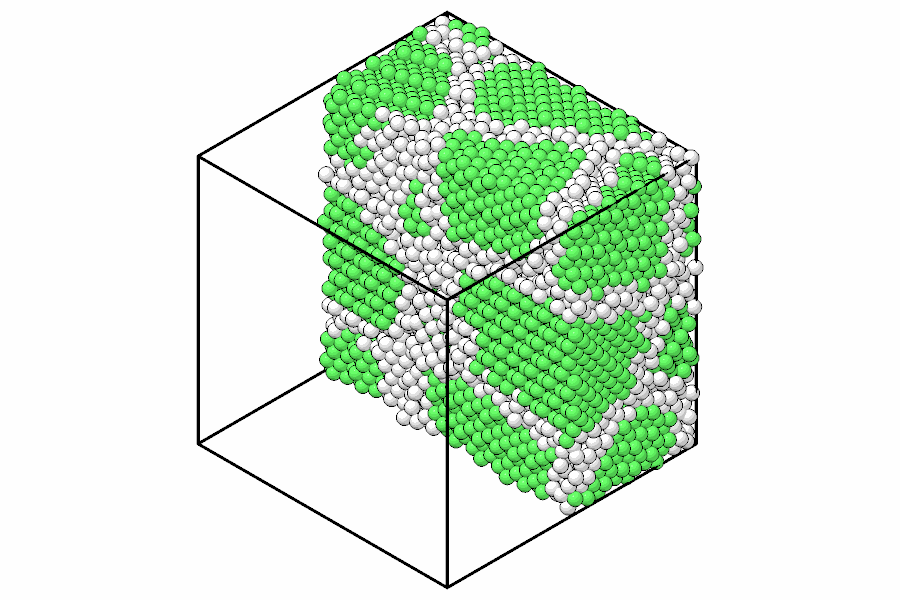
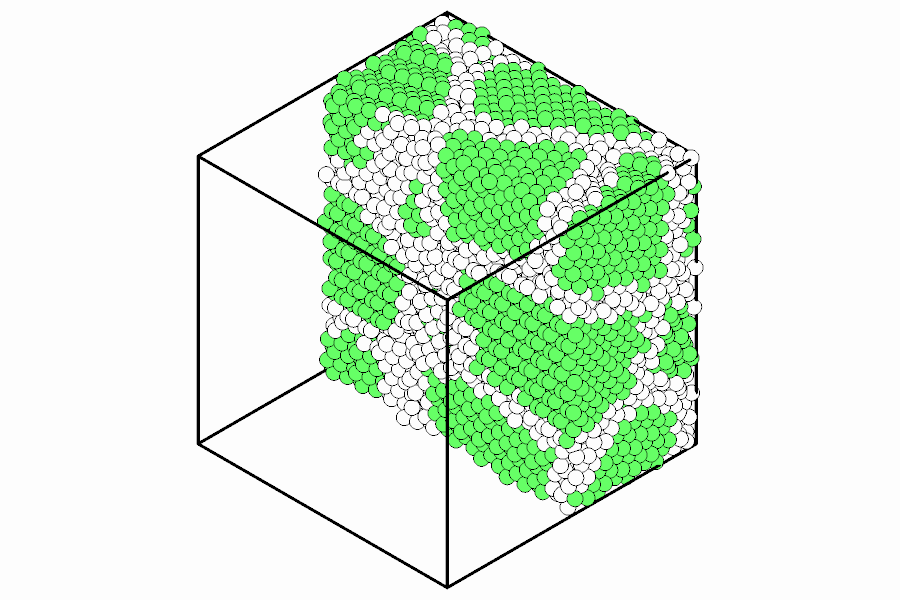
Rendering: flat in place of toon
The fourth style is flat again: plain colors with every atom outlined, as
ASE draws atoms, for small systems. The cartoon shading stays as the
setting toon_levels.

Changed region(s): [[0.3422, 0.03, 0.7778, 0.87]]

diff --git a/tests/visualization/test_render.py b/tests/visualization/test_render.py
@@ -159,10 +159,6 @@ def test_trace_matches_brute_force():
 # ------------------------------------------------------------ pictures
 
 
-# plain colors in linear light, without lights or occlusion
-FLAT = {"style": "toon", "flat": True}
-
-
 def one_sphere(color=(0.2, 0.6, 0.9), **options):
     scene = Scene()
     scene.add_spheres([[0.0, 0, 0]], 1.0, color)
@@ -170,7 +166,7 @@ def one_sphere(color=(0.2, 0.6, 0.9), **options):
 
 
 def test_silhouette_and_flat_color():
-    image = one_sphere(**FLAT, outline_width=0.0, background=None, zoom=0.5)
+    image = one_sphere(style="flat", outline_width=0.0, background=None, zoom=0.5)
     # framed with 4 % to spare and zoomed out twice: the sphere spans a
     # quarter of the picture's width
     covered = (image[..., 3] > 127).sum()
@@ -192,7 +188,9 @@ def srgb_to_linear(c):
 def test_front_sphere_hides_the_back_one():
     scene = Scene()
     scene.add_spheres([[0.0, 0, 0], [0.0, 0, -3]], 1.0, [[1.0, 0, 0], [0, 0, 1.0]])
-    image = scene.render(width=100, height=100, view="top", **FLAT, outline_width=0)
+    image = scene.render(
+        width=100, height=100, view="top", style="flat", outline_width=0
+    )
     red, green, blue = image[50, 50, :3]
     assert red > 200 and blue < 50 and green < 50
 
@@ -203,15 +201,17 @@ def test_transparent_triangles():
     scene.add_triangles(
         [[[-5, -5, 2.0], [5, -5, 2], [0, 5, 2]]], (1.0, 0, 0), alpha=0.5
     )
-    image = scene.render(width=100, height=100, view="top", **FLAT, outline_width=0)
+    image = scene.render(
+        width=100, height=100, view="top", style="flat", outline_width=0
+    )
     r, g, b = image[50, 50, :3].astype(float) / 255
     expected = srgb(0.5 * srgb_to_linear([1, 0, 0]) + 0.5 * srgb_to_linear([0, 0, 1]))
     np.testing.assert_allclose([r, g, b], expected, atol=0.01)
 
 
 def test_outlines():
-    plain = one_sphere(**FLAT, outline_width=0.0)
-    lined = one_sphere(**FLAT, outline_width=3.0)
+    plain = one_sphere(style="flat", outline_width=0.0)
+    lined = one_sphere(style="flat", outline_width=3.0)
     dark = lined[..., :3].sum(axis=2) < 60
     assert dark.sum() > 0 and (plain[..., :3].sum(axis=2) < 60).sum() == 0
     # the line circles the sphere, just outside its silhouette
@@ -335,7 +335,7 @@ def test_focus_and_span_frame_a_given_region():
         height=200,
         view="top",
         background=None,
-        **FLAT,
+        style="flat",
         outline_width=0.0,
     )
     image = scene.render(focus=(1.0, 2.0, 3.0), span=4.0, **options)
@@ -357,16 +357,16 @@ def test_focus_and_span_frame_a_given_region():
 def test_style_settings():
     from mdapy.visualization import STYLES, style_settings
 
-    assert list(STYLES) == ["fast", "matte", "shiny", "toon"]
-    toon = style_settings("toon")
-    assert toon["toon_levels"] == 3 and toon["outline_width"] == 1.2
-    assert toon["supersample"] == 2 and toon["ao_distance"] is None
-    assert toon["highlight"] is None and toon["metalness"] == 0.0
+    assert list(STYLES) == ["fast", "matte", "shiny", "flat"]
+    flat = style_settings("flat")
+    assert flat["flat"] is True and flat["outline_width"] == 1.0
+    assert flat["supersample"] == 2 and flat["ao_distance"] is None
+    assert flat["highlight"] is None and flat["metalness"] == 0.0
     assert style_settings() == style_settings("matte")
-    assert all(set(style_settings(name)) == set(toon) for name in STYLES)
+    assert all(set(style_settings(name)) == set(flat) for name in STYLES)
     # a copy: changing it changes no style
-    toon["toon_levels"] = 5
-    assert style_settings("toon")["toon_levels"] == 3
+    flat["flat"] = False
+    assert style_settings("flat")["flat"] is True
     # the settings render the same picture as the style
     scene = Scene()
     scene.add_spheres([[0.0, 0, 0]], 1.0, (0.2, 0.6, 0.9))
@@ -784,7 +784,7 @@ def test_samples_in_every_style():
     # rays anywhere in the subpixels cover a disk closer to its area
     picture = {
         samples: one_sphere(
-            **FLAT,
+            style="flat",
             outline_width=0.0,
             background=None,
             zoom=0.5,
@@ -811,7 +811,7 @@ def test_depth_of_field():
         "focus": [0, 0, 0],
         "span": 12,
         "background": None,
-        **FLAT,
+        "style": "flat",
         "outline_width": 0.0,
         "samples": 16,
     }
@@ -852,7 +852,7 @@ def test_depth_of_field():
 def test_light_reflected_in_color():
     scene = floor_and_ball("red", [0.0, 0, 1.0], size=4.0)
     options = {"width": 120, "height": 120, "view": "iso"}
-    flat = scene.render(**FLAT, outline_width=0, **options)[..., :3].astype(int)
+    flat = scene.render(style="flat", outline_width=0, **options)[..., :3].astype(int)
     ball = flat[..., 0] > flat[..., 1] + 50
     near = np.zeros_like(ball)  # the ball and the pixels next to it
     for dy in range(-2, 3):
@@ -904,7 +904,7 @@ def test_representations():
         "height": 120,
         "view": "top",
         "box": False,
-        **FLAT,
+        "style": "flat",
     }
     pictures = {
         r: render(molecule, representation=r, **options) for r in REPRESENTATIONS
@@ -942,7 +942,8 @@ needs_gpu = pytest.mark.skipif(not gpu_available(), reason="no GPU")
     [
         {"style": "matte"},
         {"style": "fast", "background": None},
-        {"style": "toon", "perspective": True, "fog": 0.5},
+        {"style": "flat", "perspective": True, "fog": 0.5},
+        {"style": "matte", "toon_levels": 3, "outline_width": 1.2, "ao_samples": 0},
         {"style": "shiny", "samples": 4},
         {"style": "shiny", "samples": 4, "metalness": 1.0, "highlight": (1, -1, 1)},
         {"style": "matte", "light_size": 0.2, "samples": 4},
@@ -998,7 +999,7 @@ def test_the_color_of_the_box():
     system = mdapy.System(np.zeros((1, 3)), mdapy.Box(10.0), elements="Cu")
     options = {
         "atoms": np.zeros(1, dtype=bool),
-        **FLAT,
+        "style": "flat",
         "outline_width": 0.0,
         "width": 120,
         "height": 120,

diff --git a/src/mdapy/visualization/_scene.py b/src/mdapy/visualization/_scene.py
@@ -77,13 +77,13 @@ STYLES: dict[str, dict[str, Any]] = {
         "shininess": 40.0,
         "metalness": 0.4,
     },
-    # cel shading with outlines
-    "toon": {
-        "toon_levels": 3,
+    # plain colors with every atom outlined, as ASE draws atoms
+    "flat": {
+        "flat": True,
         "ao_samples": 0,
         "shadows": False,
-        "outline_width": 1.2,
-        "specular": 0.35,
+        "outline_width": 1.0,
+        "outline_depth": 0.0,
     },
 }
 

diff --git a/docs/visualization/rendering.md b/docs/visualization/rendering.md
@@ -17,7 +17,7 @@ structures = CommonNeighborAnalysis().compute(grains)
 
 image = render(grains, color=structures, width=800, height=600)  # (600, 800, 4)
 boundaries = render(
-    grains, atoms=structures.structure != 1, color=structures, style="toon"
+    grains, atoms=structures.structure != 1, color=structures, style="flat"
 )
 ```
 
@@ -36,7 +36,7 @@ write_png("images/styles.png", np.hstack(pictures))
 ![The styles](images/styles.png)
 
 *The four styles on a polycrystal colored by common neighbor analysis:
-fast, matte, shiny and toon.*
+fast, matte, shiny and flat.*
 
 ## Parameters
 
@@ -119,7 +119,7 @@ The `options` are those of `Scene.render`:
 | `fast` | quick, as the viewports of OVITO: an ambient part, a light from the viewer and a broad highlight from the upper left, neither occlusion nor shadows |
 | `matte` | matte spheres, as the pictures of the Tachyon renderer of OVITO: a bright sky darkened by ambient occlusion, a weak light from the viewer with sharp shadows |
 | `shiny` | shiny spheres with a metallic sheen, after the pictures of the OSPRay renderer of OVITO: light from a sky and a wide key light that bounces once between the atoms, soft shadows and small highlights; about three times slower than `matte` |
-| `toon` | cel shading in three levels, outlined; for small systems |
+| `flat` | plain colors, every atom outlined, as ASE draws atoms; for small systems |
 
 Any setting of a style can be changed by name: `ambient`, `diffuse`,
 `specular`, `shininess`, `metalness` (from 0 to 1: metals reflect less

diff --git a/docs/reference/glossary.md b/docs/reference/glossary.md
@@ -37,7 +37,7 @@ implemented.
 | spanning cluster | A cluster that joins a periodic image of itself through its bonds, so that it has no unbroken position. |
 | covalent bond | A pair of atoms closer than the sum of their covalent radii and 0.45 Å, as pictures draw them. |
 | global illumination | Light that reaches a surface after bouncing off others, as the shiny style of pictures traces it. |
-| style of a picture | Its lights, shadows, occlusion and outlines together: fast (as the viewports of OVITO), matte (as its Tachyon renderer), shiny (after its OSPRay renderer) or toon. |
+| style of a picture | Its lights, shadows, occlusion and outlines together: fast (as the viewports of OVITO), matte (as its Tachyon renderer), shiny (after its OSPRay renderer) or flat (outlined, as ASE draws atoms). |
 | highlight | The light of a lamp mirrored by a surface toward the viewer: a bright spot on a sphere. |
 | metalness | From 0 to 1, how much a surface behaves as a metal: it reflects less light diffusely and its highlights take its color. |
 | depth of field | In a picture through a lens, the range of depths that looks sharp around the plane in focus; nearer and farther things blur. |

diff --git a/docs/development/release-notes.md b/docs/development/release-notes.md
@@ -344,7 +344,8 @@ mdapy 2.0 is a complete rewrite and is not compatible with mdapy 1.x.
   ambient occlusion, shadows and outlines in four styles: fast, lit as the
   viewports of OVITO; matte, as the Tachyon renderer of OVITO (the
   default); shiny, a metallic sheen after its OSPRay renderer, with light
-  bouncing between the atoms; toon, outlined; colored by element,
+  bouncing between the atoms; flat, plain colors outlined as ASE draws
+  atoms; colored by element,
   structure, values or by hand, with bonds, the box, Voronoi cells,
   surface meshes and dislocation lines with arrows of their Burgers
   vectors, cut at the periodic faces of the box;

diff --git a/docs/getting-started/quick-tour.md b/docs/getting-started/quick-tour.md
@@ -96,7 +96,7 @@ render(
     "images/quick-tour.png",
     atoms=grains["positions"][:, 0] < 30,  # the half at x < 30 Å
     color=structures,
-    style="toon",
+    style="flat",
     width=900,
     height=600,
 )
@@ -105,7 +105,7 @@ render(
 ![A polycrystal cut in half](images/quick-tour.png)
 
 *Six grains of copper cut in half: fcc atoms green, grain boundaries white,
-in the toon style.*
+in the flat style.*
 
 See [Building structures](../build/polycrystals.md), [Common neighbor
 analysis](../analysis/cna.md) and [Rendering](../visualization/rendering.md).
